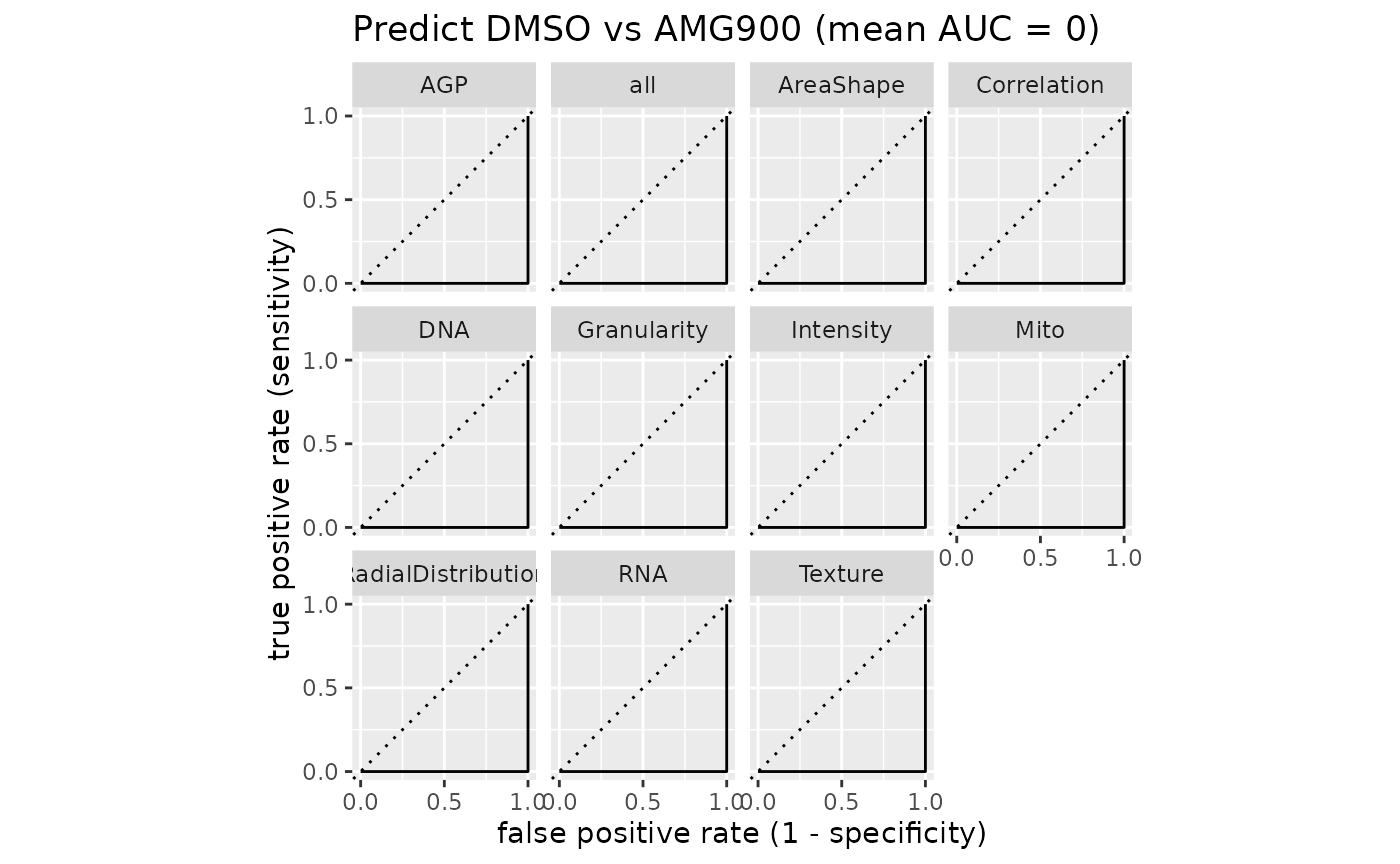
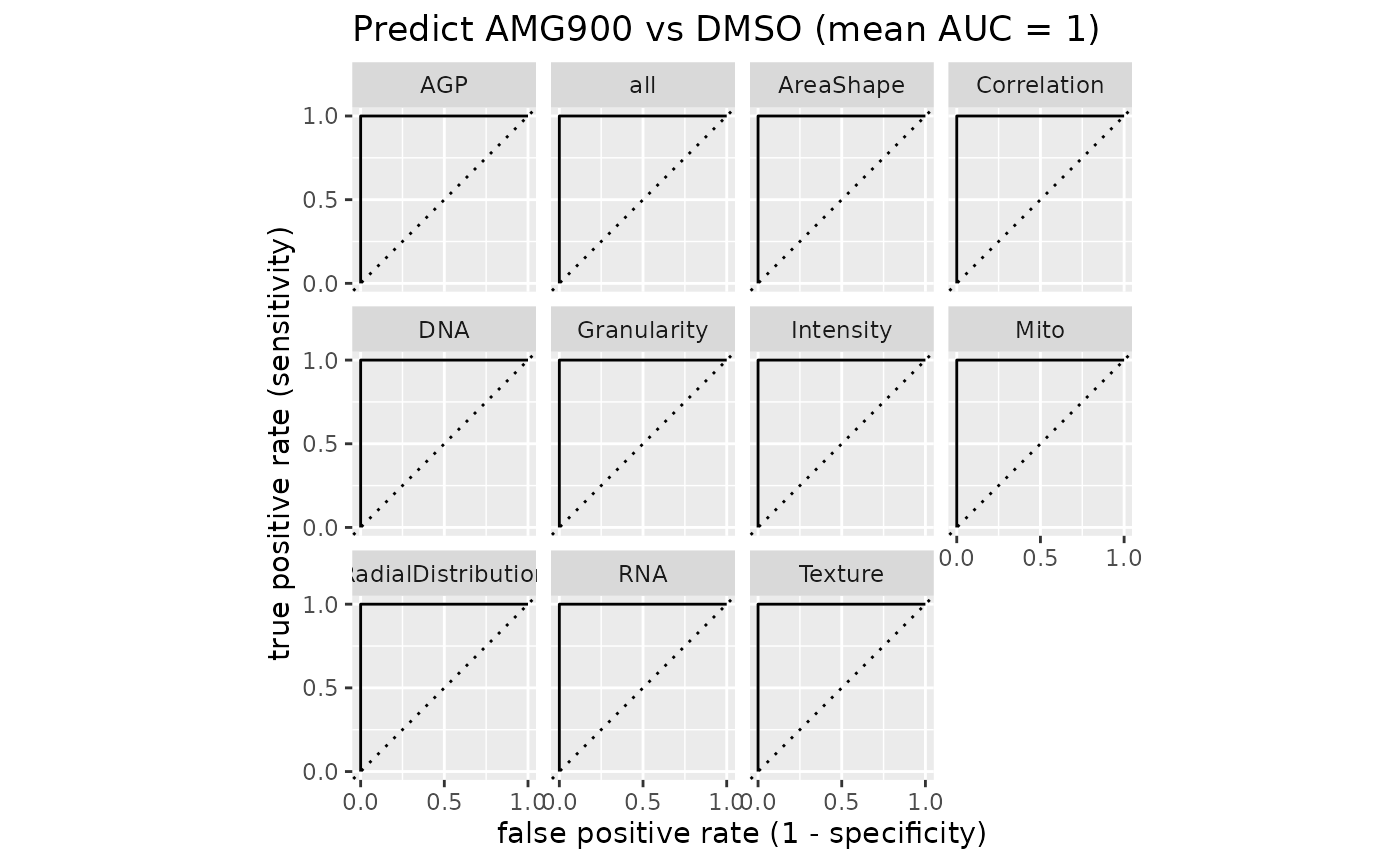
Deploying to gh-pages from @ ChristofSeiler/cellpaintr@e8924be17798ff38c2a76f7cb82c6e93888062de 🚀

diff --git a/articles/cellpaintr-vignette.html b/articles/cellpaintr-vignette.html
@@ -322,12 +322,20 @@ principal component analysis from <code>scater</code>.</p>
 <span>    assays <span class="op">=</span> <span class="fu"><a href="https://rdrr.io/r/base/list.html" class="external-link">list</a></span><span class="op">(</span>means <span class="op">=</span> <span class="fu"><a href="https://rdrr.io/r/base/t.html" class="external-link">t</a></span><span class="op">(</span><span class="fu"><a href="https://rdrr.io/r/base/t.html" class="external-link">t</a></span><span class="op">(</span><span class="va">aggr</span><span class="op">$</span><span class="va">sums</span><span class="op">)</span> <span class="op">/</span> <span class="va">aggr</span><span class="op">$</span><span class="va">counts</span><span class="op">)</span><span class="op">)</span>,</span>
 <span>    colData <span class="op">=</span> <span class="fu">DataFrame</span><span class="op">(</span><span class="va">aggr</span><span class="op">$</span><span class="va">combinations</span>, ncells <span class="op">=</span> <span class="va">aggr</span><span class="op">$</span><span class="va">counts</span><span class="op">)</span></span>
 <span><span class="op">)</span></span>
-<span><span class="va">sce_wells</span> <span class="op">&lt;-</span> <span class="fu"><a href="https://rdrr.io/pkg/BiocSingular/man/runPCA.html" class="external-link">runPCA</a></span><span class="op">(</span><span class="va">sce_wells</span>, exprs_values <span class="op">=</span> <span class="st">"means"</span>, ncomponents <span class="op">=</span> <span class="fl">10</span><span class="op">)</span></span>
+<span><span class="va">sce_wells</span> <span class="op">&lt;-</span> <span class="fu"><a href="https://rdrr.io/pkg/BiocSingular/man/runPCA.html" class="external-link">runPCA</a></span><span class="op">(</span><span class="va">sce_wells</span>,</span>
+<span>    exprs_values <span class="op">=</span> <span class="st">"means"</span>, ncomponents <span class="op">=</span> <span class="fl">10</span>, scale <span class="op">=</span> <span class="cn">TRUE</span></span>
+<span><span class="op">)</span></span>
 <span><span class="fu"><a href="https://rdrr.io/pkg/scater/man/plotReducedDim.html" class="external-link">plotReducedDim</a></span><span class="op">(</span><span class="va">sce_wells</span>, dimred <span class="op">=</span> <span class="st">"PCA"</span>, colour_by <span class="op">=</span> <span class="st">"Compound"</span><span class="op">)</span></span></code></pre></div>
 <p><img src="cellpaintr-vignette_files/figure-html/aggregate-1.png" class="r-plt" alt="" width="700.0000032"></p>
 <div class="sourceCode" id="cb16"><pre class="downlit sourceCode r">
 <code class="sourceCode R"><span><span class="fu"><a href="https://rdrr.io/pkg/scater/man/plotReducedDim.html" class="external-link">plotReducedDim</a></span><span class="op">(</span><span class="va">sce_wells</span>, dimred <span class="op">=</span> <span class="st">"PCA"</span>, colour_by <span class="op">=</span> <span class="st">"Plate"</span><span class="op">)</span></span></code></pre></div>
 <p><img src="cellpaintr-vignette_files/figure-html/aggregate-2.png" class="r-plt" alt="" width="700.0000032"></p>
+<p>We scale the well means before the PCA (<code>scale = TRUE</code>).
+Robust z-scores divide by the median absolute deviation, which is close
+to zero for some features, such as the minimum intensity at the cell
+edge, so a few cells get extreme values that would otherwise dominate
+the first principal component. The random forests below are not
+affected, because trees do not depend on the scale of a feature.</p>
 <p>If the wells separate by compound, the compounds change the cells; if
 they separate by plate, there are batch effects between plates.
 <code><a href="../reference/plotPCACor.html">plotPCACor()</a></code> shows the features most correlated with a
@@ -517,9 +525,14 @@ threshold of 0.05.</p>
 <span>    stats <span class="op">=</span> <span class="va">stats_corrected</span>, p_cutoff <span class="op">=</span> <span class="fl">0.05</span></span>
 <span><span class="op">)</span></span></code></pre></div>
 <p><img src="cellpaintr-vignette_files/figure-html/plot-volcano-1.png" class="r-plt" alt="" width="700.0000032"></p>
-<p>ROC curves and areas under the curve describe how well the scores of
-each feature group separate the two conditions, across all cells of all
-replicates.</p>
+<p>ROC curves and areas under the curve (AUC) describe how well the
+scores of each feature group separate the two conditions. Both use the
+mean score of each replicate and condition, here eight points per
+feature group (four plates times two compounds), so an AUC of 1 means
+that every AMG900 mean score lies above every DMSO mean score, whichever
+plate they come from. The AUC is a descriptive summary; the tests of
+<code><a href="../reference/calculateStats.html">calculateStats()</a></code> instead compare the conditions within each
+replicate.</p>
 <div class="sourceCode" id="cb31"><pre class="downlit sourceCode r">
 <code class="sourceCode R"><span><span class="fu"><a href="../reference/plotAUC.html">plotAUC</a></span><span class="op">(</span><span class="va">sce_amg900</span>, target <span class="op">=</span> <span class="st">"Compound"</span>, group <span class="op">=</span> <span class="st">"Plate"</span><span class="op">)</span></span></code></pre></div>
 <p><img src="cellpaintr-vignette_files/figure-html/plot-roc-1.png" class="r-plt" alt="" width="700.0000032"></p>

diff --git a/reference/cellpaintr-package.html b/reference/cellpaintr-package.html
@@ -1,5 +1,5 @@
 <!DOCTYPE html>
-<!-- Generated by pkgdown: do not edit by hand --><html lang="en"><head><meta charset="UTF-8"><meta http-equiv="X-UA-Compatible" content="IE=edge"><meta name="viewport" content="width=device-width, initial-scale=1, shrink-to-fit=no"><title>cellpaintr: perturbation analysis of Cell Painting data with few replicates — cellpaintr-package • cellpaintr</title><script src="../deps/jquery-3.6.0/jquery-3.6.0.min.js"></script><meta name="viewport" content="width=device-width, initial-scale=1, shrink-to-fit=no"><link href="../deps/bootstrap-5.3.8/bootstrap.min.css" rel="stylesheet"><script src="../deps/bootstrap-5.3.8/bootstrap.bundle.min.js"></script><link href="../deps/font-awesome-6.5.2/css/all.min.css" rel="stylesheet"><link href="../deps/font-awesome-6.5.2/css/v4-shims.min.css" rel="stylesheet"><script src="../deps/headroom-0.11.0/headroom.min.js"></script><script src="../deps/headroom-0.11.0/jQuery.headroom.min.js"></script><script src="../deps/bootstrap-toc-1.0.1/bootstrap-toc.min.js"></script><script src="../deps/clipboard.js-2.0.11/clipboard.min.js"></script><script src="../deps/search-1.0.0/autocomplete.jquery.min.js"></script><script src="../deps/search-1.0.0/fuse.min.js"></script><script src="../deps/search-1.0.0/mark.min.js"></script><!-- pkgdown --><script src="../pkgdown.js"></script><meta property="og:title" content="cellpaintr: perturbation analysis of Cell Painting data with few replicates — cellpaintr-package"><meta name="description" content="cellpaintr tests whether a perturbation, such as a drug, changes the
+<!-- Generated by pkgdown: do not edit by hand --><html lang="en"><head><meta charset="UTF-8"><meta http-equiv="X-UA-Compatible" content="IE=edge"><meta name="viewport" content="width=device-width, initial-scale=1, shrink-to-fit=no"><title>cellpaintr: perturbation analysis of Cell Painting data — cellpaintr-package • cellpaintr</title><script src="../deps/jquery-3.6.0/jquery-3.6.0.min.js"></script><meta name="viewport" content="width=device-width, initial-scale=1, shrink-to-fit=no"><link href="../deps/bootstrap-5.3.8/bootstrap.min.css" rel="stylesheet"><script src="../deps/bootstrap-5.3.8/bootstrap.bundle.min.js"></script><link href="../deps/font-awesome-6.5.2/css/all.min.css" rel="stylesheet"><link href="../deps/font-awesome-6.5.2/css/v4-shims.min.css" rel="stylesheet"><script src="../deps/headroom-0.11.0/headroom.min.js"></script><script src="../deps/headroom-0.11.0/jQuery.headroom.min.js"></script><script src="../deps/bootstrap-toc-1.0.1/bootstrap-toc.min.js"></script><script src="../deps/clipboard.js-2.0.11/clipboard.min.js"></script><script src="../deps/search-1.0.0/autocomplete.jquery.min.js"></script><script src="../deps/search-1.0.0/fuse.min.js"></script><script src="../deps/search-1.0.0/mark.min.js"></script><!-- pkgdown --><script src="../pkgdown.js"></script><meta property="og:title" content="cellpaintr: perturbation analysis of Cell Painting data — cellpaintr-package"><meta name="description" content="cellpaintr tests whether a perturbation, such as a drug, changes the
 morphology of cells reproducibly across a handful of replicates, such as
 patients or plates. It learns on single cells and tests on replicates: a
 random forest trained on the cells of all other replicates scores the
@@ -46,7 +46,7 @@ channels."></head><body>
 <div class="row">
   <main id="main" class="col-md-9"><div class="page-header">
 
-      <h1>cellpaintr: perturbation analysis of Cell Painting data with few replicates</h1>
+      <h1>cellpaintr: perturbation analysis of Cell Painting data</h1>
       <small class="dont-index">Source: <a href="https://github.com/ChristofSeiler/cellpaintr/blob/main/R/cellpaintr-package.R" class="external-link"><code>R/cellpaintr-package.R</code></a></small>
       <div class="d-none name"><code>cellpaintr-package.Rd</code></div>
     </div>

diff --git a/news/index.html b/news/index.html
@@ -95,6 +95,13 @@
 <li>
 <code><a href="../reference/calculateStats.html">calculateStats()</a></code> offers the correction of the corrected resampled t-test of Nadeau and Bengio (2003) (<code>method = "nadeau_bengio"</code>), which divides the paired t-statistic by sqrt((2n-1)/(n-1)). It corrects less than <code>method = "corrected"</code> and needs a paired design with at least two patients and no refits.</li>
 <li>The permutation test of <code><a href="../reference/calculateStats.html">calculateStats()</a></code> no longer refits relabelings that only repeat another one. Exchanging the two levels in all patients at once turns every score into one minus the score and leaves the statistic unchanged, so one patient now keeps its labels whenever this exchange is itself a relabeling (always in a paired design). This halves the number of refits, and the test stays exact. In a paired design with n patients, there are 2^(n-1) relabelings, and the smallest attainable p-value is 2^(1-n) instead of a nominal 2^-n that depended on the forest seeds.</li>
+</ul><p>Bug fixes:</p>
+<ul><li>
+<code><a href="../reference/plotROC.html">plotROC()</a></code> and <code><a href="../reference/plotAUC.html">plotAUC()</a></code> take the interest and reference levels from the settings of <code><a href="../reference/predictLOO.html">predictLOO()</a></code> instead of from the order of the factor levels of <code>target</code>. Before, a character <code>target</code> whose interest level sorted first alphabetically, such as AMG900 against DMSO, swapped the two levels and turned every AUC into one minus the AUC.</li>
+<li>
+<code><a href="../reference/predictLOO.html">predictLOO()</a></code> orders the levels of a character <code>target</code> with the reference level first.</li>
+<li>The vignette explains that ROC curves and AUCs use the mean scores of each replicate and condition.</li>
+<li>The vignette scales the well means before the PCA. Robust z-scores are extreme for features with a median absolute deviation close to zero, and one well dominated the first principal component.</li>
 </ul></div>
   </main><aside class="col-md-3"><nav id="toc" aria-label="Table of contents"><h2>On this page</h2>
     </nav></aside></div>

diff --git a/reference/generateData.html b/reference/generateData.html
@@ -55,7 +55,7 @@
     <h2 id="ref-examples">Examples<a class="anchor" aria-label="anchor" href="#ref-examples"></a></h2>
     <div class="sourceCode"><pre class="sourceCode r"><code><span class="r-in"><span><span class="fu"><a href="https://rdrr.io/r/base/Random.html" class="external-link">set.seed</a></span><span class="op">(</span><span class="fl">23</span><span class="op">)</span></span></span>
 <span class="r-in"><span><span class="fu">generateData</span><span class="op">(</span><span class="op">)</span></span></span>
-<span class="r-out co"><span class="r-pr">#&gt;</span> [1] "/tmp/RtmpMcYMfd/file1a0a248716a6.csv"</span>
+<span class="r-out co"><span class="r-pr">#&gt;</span> [1] "/tmp/RtmpKbUeRg/file19211cdbc002.csv"</span>
 <span class="r-in"><span></span></span>
 </code></pre></div>
     </div>

diff --git a/articles/cellpaintr-vignette.md b/articles/cellpaintr-vignette.md
@@ -270,7 +270,9 @@ sce_wells <- SingleCellExperiment(
     assays = list(means = t(t(aggr$sums) / aggr$counts)),
     colData = DataFrame(aggr$combinations, ncells = aggr$counts)
 )
-sce_wells <- runPCA(sce_wells, exprs_values = "means", ncomponents = 10)
+sce_wells <- runPCA(sce_wells,
+    exprs_values = "means", ncomponents = 10, scale = TRUE
+)
 plotReducedDim(sce_wells, dimred = "PCA", colour_by = "Compound")
 ```
 
@@ -282,6 +284,13 @@ plotReducedDim(sce_wells, dimred = "PCA", colour_by = "Plate")
 ```
 
 ![](cellpaintr-vignette_files/figure-html/aggregate-2.png)
+
+We scale the well means before the PCA (`scale = TRUE`). Robust z-scores
+divide by the median absolute deviation, which is close to zero for some
+features, such as the minimum intensity at the cell edge, so a few cells
+get extreme values that would otherwise dominate the first principal
+component. The random forests below are not affected, because trees do
+not depend on the scale of a feature.
 
 If the wells separate by compound, the compounds change the cells; if
 they separate by plate, there are batch effects between plates.
@@ -488,9 +497,14 @@ volcanoPlot(sce_amg900,
 
 ![](cellpaintr-vignette_files/figure-html/plot-volcano-1.png)
 
-ROC curves and areas under the curve describe how well the scores of
-each feature group separate the two conditions, across all cells of all
-replicates.
+ROC curves and areas under the curve (AUC) describe how well the scores
+of each feature group separate the two conditions. Both use the mean
+score of each replicate and condition, here eight points per feature
+group (four plates times two compounds), so an AUC of 1 means that every
+AMG900 mean score lies above every DMSO mean score, whichever plate they
+come from. The AUC is a descriptive summary; the tests of
+[`calculateStats()`](https://christofseiler.github.io/cellpaintr/reference/calculateStats.md)
+instead compare the conditions within each replicate.
 
 ``` r
 

diff --git a/news/index.md b/news/index.md
@@ -142,3 +142,23 @@ Changes to improve the package but unrelated to the Bioconductor review:
   stays exact. In a paired design with n patients, there are 2^(n-1)
   relabelings, and the smallest attainable p-value is 2^(1-n) instead of
   a nominal 2^-n that depended on the forest seeds.
+
+Bug fixes:
+
+- [`plotROC()`](https://christofseiler.github.io/cellpaintr/reference/plotROC.md)
+  and
+  [`plotAUC()`](https://christofseiler.github.io/cellpaintr/reference/plotAUC.md)
+  take the interest and reference levels from the settings of
+  [`predictLOO()`](https://christofseiler.github.io/cellpaintr/reference/predictLOO.md)
+  instead of from the order of the factor levels of `target`. Before, a
+  character `target` whose interest level sorted first alphabetically,
+  such as AMG900 against DMSO, swapped the two levels and turned every
+  AUC into one minus the AUC.
+- [`predictLOO()`](https://christofseiler.github.io/cellpaintr/reference/predictLOO.md)
+  orders the levels of a character `target` with the reference level
+  first.
+- The vignette explains that ROC curves and AUCs use the mean scores of
+  each replicate and condition.
+- The vignette scales the well means before the PCA. Robust z-scores are
+  extreme for features with a median absolute deviation close to zero,
+  and one well dominated the first principal component.

diff --git a/reference/cellpaintr-package.md b/reference/cellpaintr-package.md
@@ -1,4 +1,4 @@
-# cellpaintr: perturbation analysis of Cell Painting data with few replicates
+# cellpaintr: perturbation analysis of Cell Painting data
 
 cellpaintr tests whether a perturbation, such as a drug, changes the
 morphology of cells reproducibly across a handful of replicates, such as

diff --git a/reference/generateData.md b/reference/generateData.md
@@ -17,5 +17,5 @@ path to csv file
 ``` r
 set.seed(23)
 generateData()
-#> [1] "/tmp/RtmpMcYMfd/file1a0a248716a6.csv"
+#> [1] "/tmp/RtmpKbUeRg/file19211cdbc002.csv"
 ```
